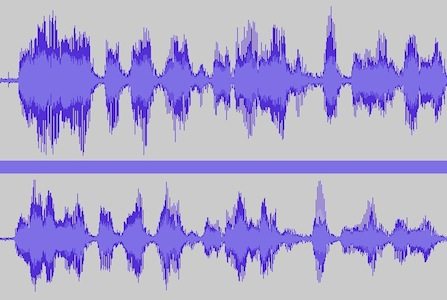
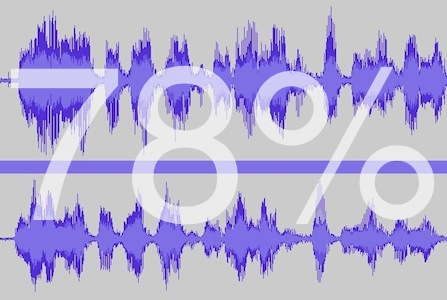
Updated audio file to show score

diff --git a/index.html b/index.html
@@ -212,7 +212,7 @@
                 </div>
                 <div class="span5 copy">
                     <p>
-                    Papuga is an mobile, online game in which players must master the art of
+                    Papuga is a mobile, online game in which players must master the art of
                     imitation. The game will feature ongoing challenges, with recordings of
                     celebrities (<em>"Go ahead, make my day!"</em>) and historical figures
                     (<em>"This was their Finest Hour"</em>) to mimic.  Players can also
